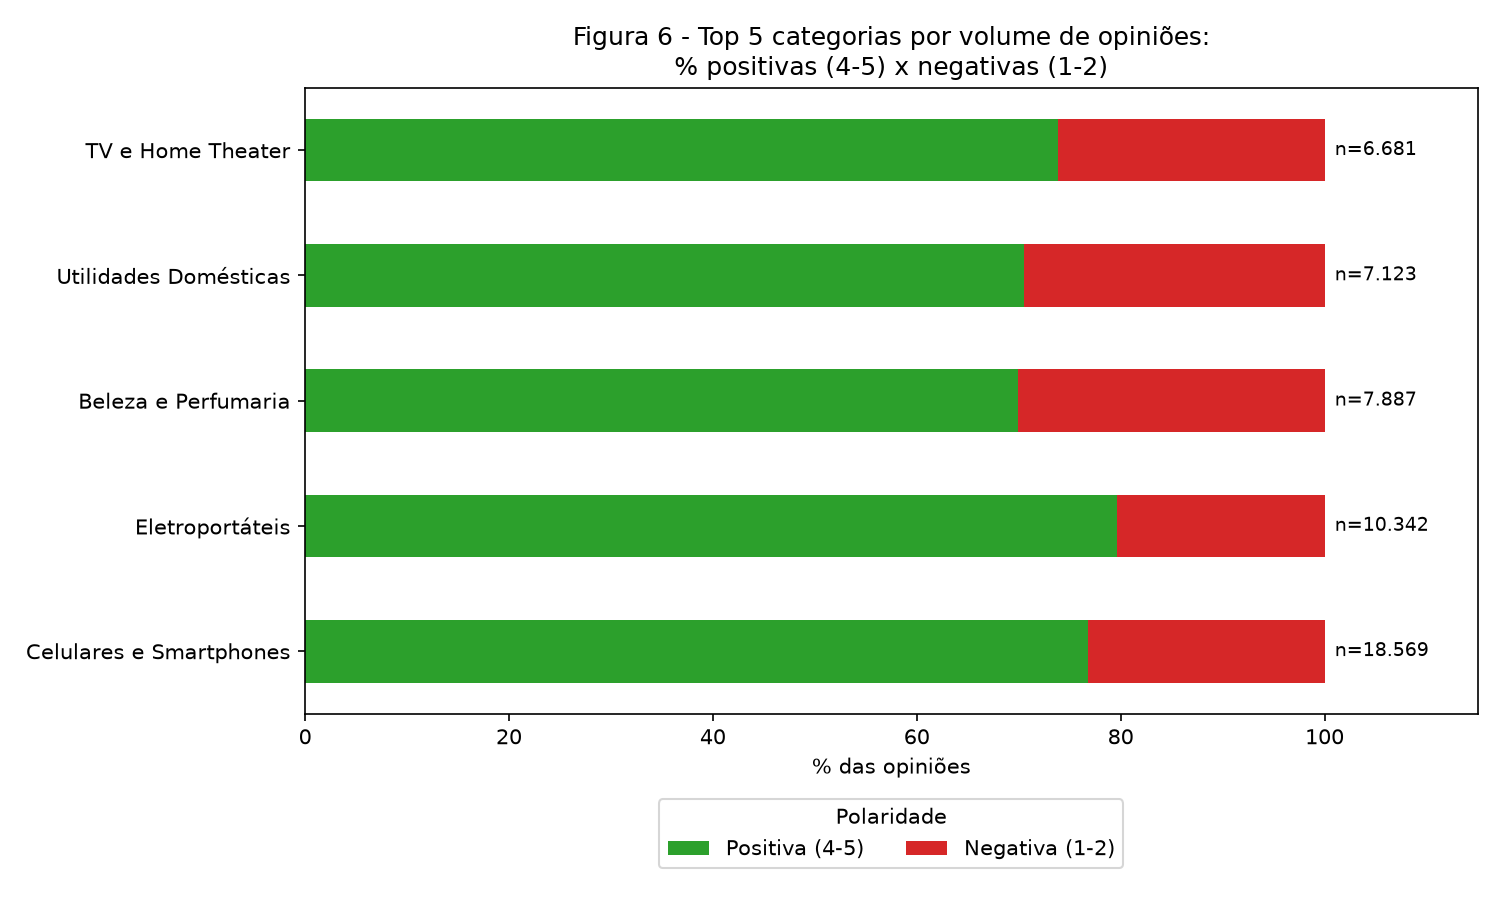
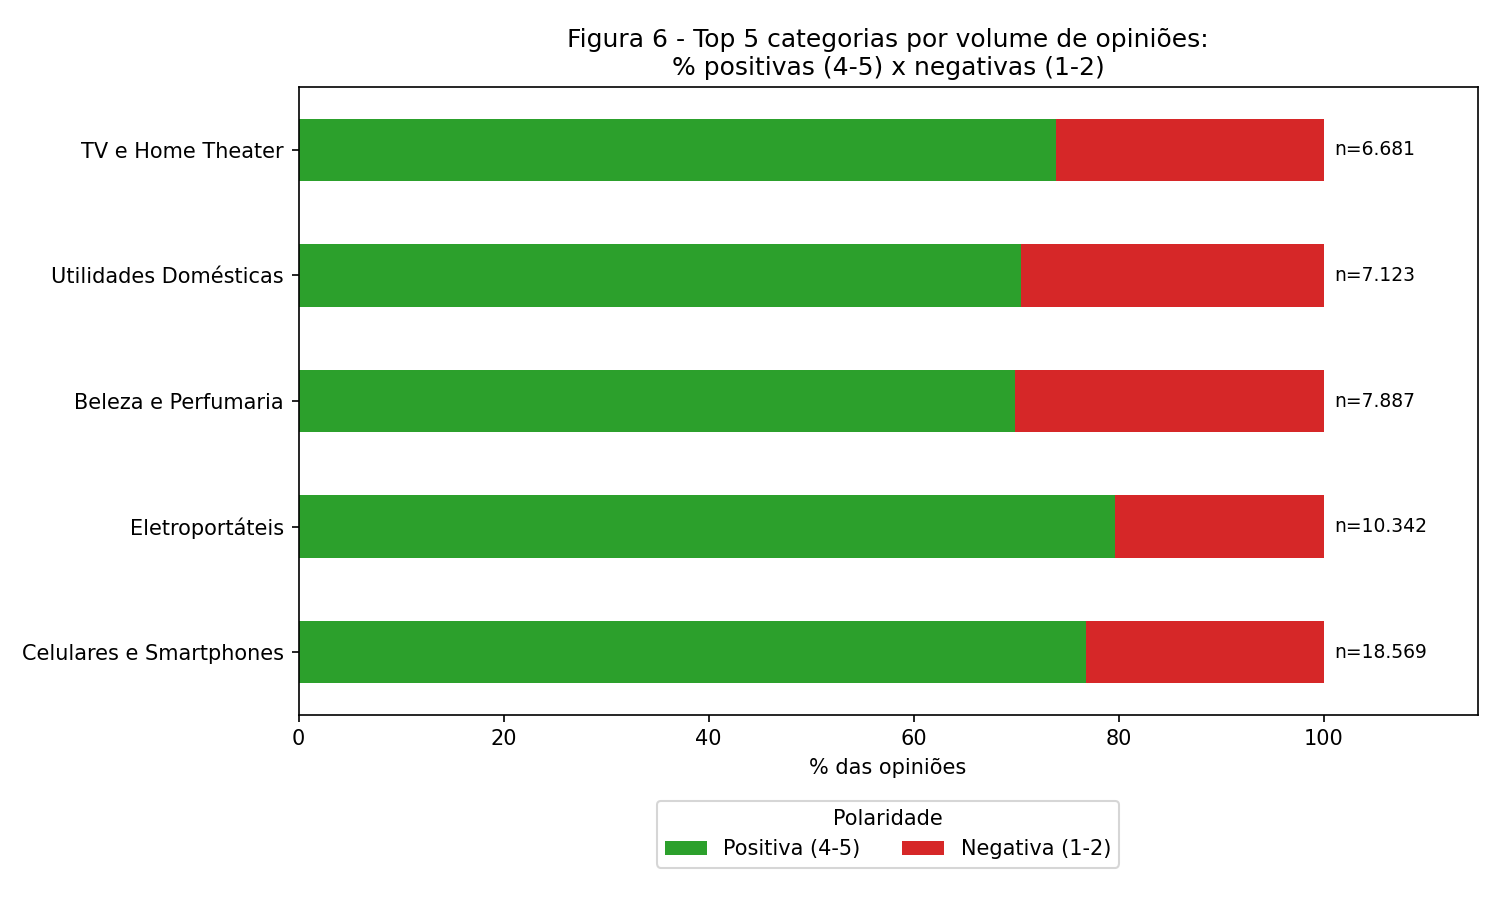
feat: Add opinion distribution analysis by sentiment polarity

diff --git a/01_eda/notebooks/opinioes_por_polo_no_neutral.py b/01_eda/notebooks/opinioes_por_polo_no_neutral.py
@@ -1,0 +1,58 @@
+"""Distribuição de opiniões por polo (Positiva 4-5 x Negativa 1-2) usando os 3
+splits sem neutros (train/val/test) de data/processed — conjunto total no_neutral.
+"""
+import pandas as pd
+import matplotlib.pyplot as plt
+
+BASE = "data/processed/B2W-Reviews01_no_neutral_{}.csv"
+SPLITS = ["train", "val", "test"]
+
+df = pd.concat(
+    [pd.read_csv(BASE.format(s)) for s in SPLITS],
+    ignore_index=True,
+)
+
+df["polaridade"] = df["overall_rating"].map(
+    lambda r: "Positiva (4-5)" if r >= 4 else "Negativa (1-2)"
+)
+
+ordem = ["Negativa (1-2)", "Positiva (4-5)"]
+qtd = df["polaridade"].value_counts().reindex(ordem)
+pct = df["polaridade"].value_counts(normalize=True).mul(100).round(1).reindex(ordem)
+
+tabela = pd.DataFrame({"Opiniões": qtd, "% do total": pct})
+tabela.index.name = "Polo"
+
+total = len(df)
+total_fmt = f"{total:,d}".replace(",", ".")
+csv_path = "01_eda/notebooks/opinioes_por_polo.csv"
+tabela.to_csv(csv_path, encoding="utf-8-sig")
+print(f"Total de opiniões (no_neutral, train+val+test): {total_fmt}")
+print(tabela)
+
+fig, ax = plt.subplots(figsize=(9, 3))
+cores = {"Negativa (1-2)": "#d62728", "Positiva (4-5)": "#2ca02c"}
+esquerda = 0
+for polo in ordem:
+    largura = pct[polo]
+    ax.barh(0, largura, left=esquerda, color=cores[polo], label=polo)
+    ax.text(
+        esquerda + largura / 2, 0,
+        f"{polo}\n{qtd[polo]:,} ({pct[polo]}%)".replace(",", "."),
+        ha="center", va="center", color="white", fontsize=11, fontweight="bold",
+    )
+    esquerda += largura
+
+ax.set_xlim(0, 100)
+ax.set_yticks([])
+ax.set_xlabel("% das opiniões")
+ax.set_title(
+    f"Opiniões por Polo (conjunto total no_neutral · {total_fmt} opiniões)",
+    fontsize=12, fontweight="bold", pad=12,
+)
+plt.tight_layout()
+
+fig_path = "01_eda/figures/Opiniões por Polo.png"
+plt.savefig(fig_path, dpi=150)
+print(f"\nFigura salva em: {fig_path}")
+print(f"Tabela salva em: {csv_path}")